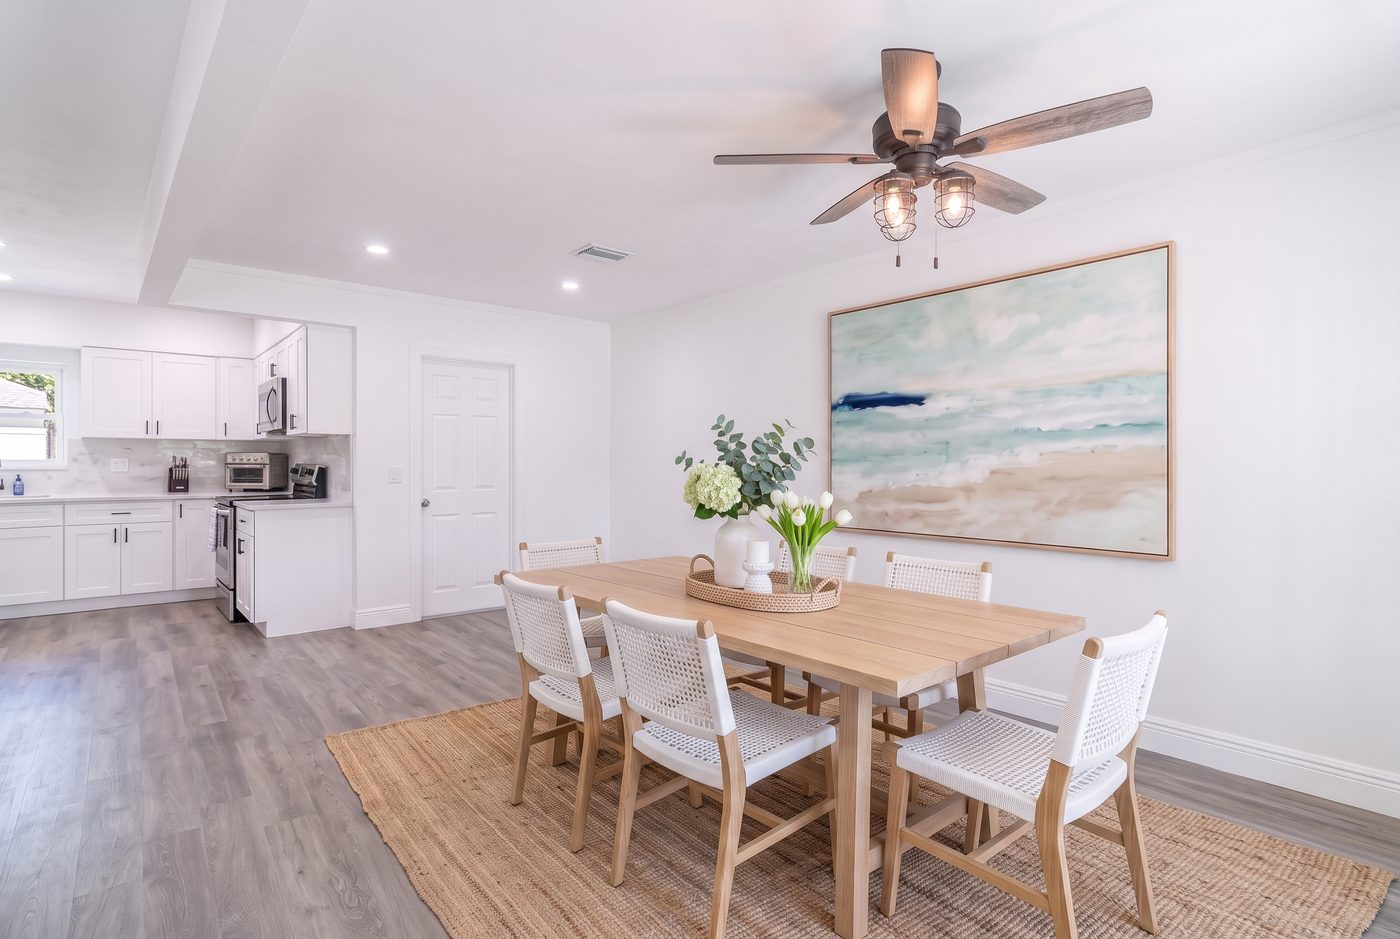
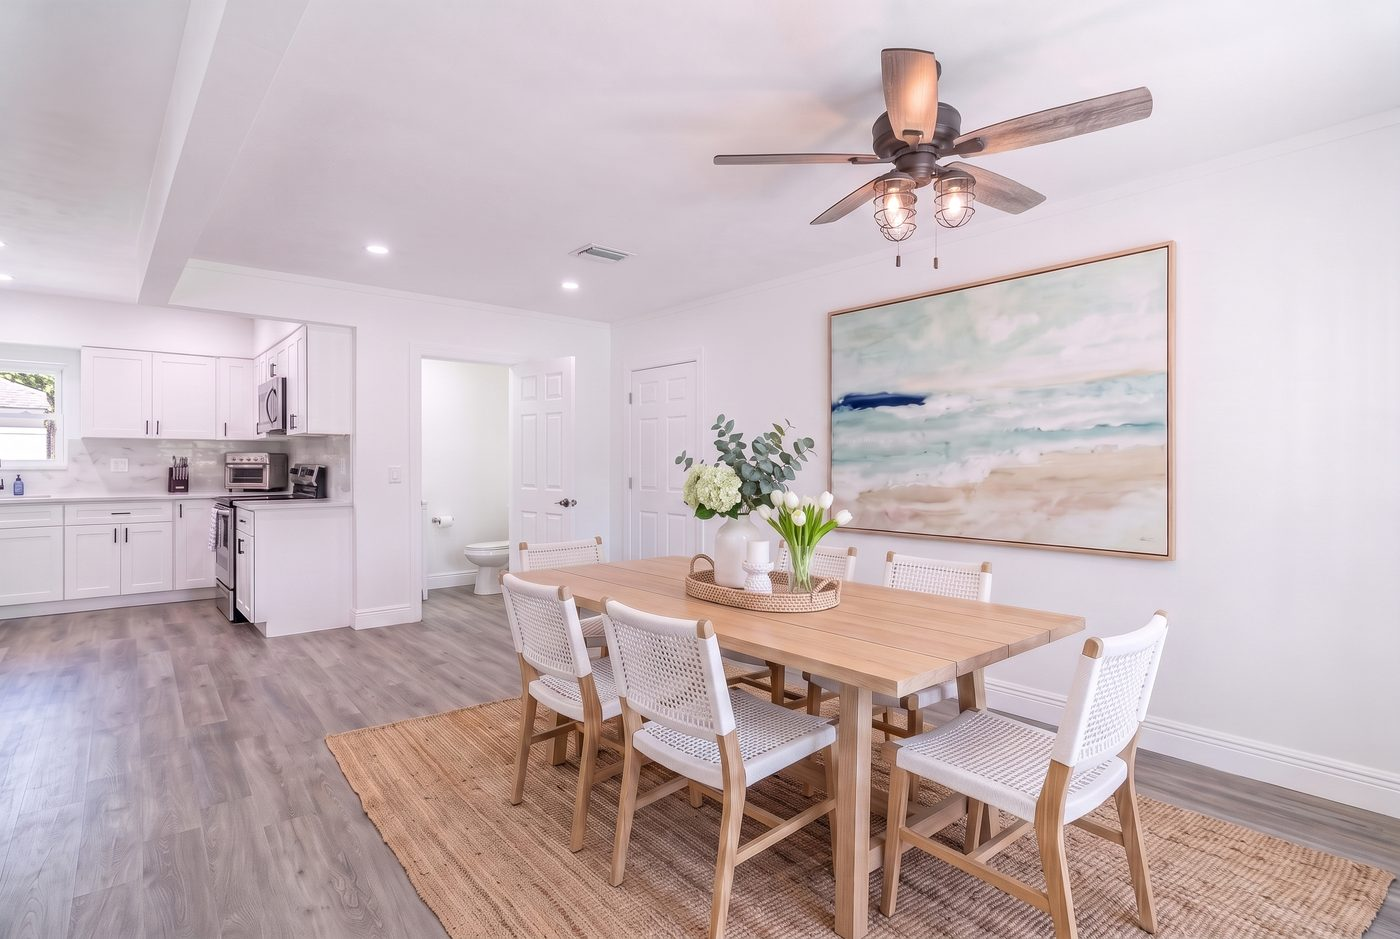
Laundry door moved, powder room added; 1.5 baths

diff --git a/index.html b/index.html
@@ -8,8 +8,8 @@
 <header class="absolute inset-x-0 top-0 z-20 flex items-center justify-between px-6 py-5 text-white"><span class="serif text-xl tracking-wide">BOYNTON BEACH · PALM BEACH COUNTY</span><span class="rounded-full border border-white/60 px-3 py-1 text-xs font-semibold tracking-[0.2em]">COMING SOON</span></header>
 <section class="relative h-[82vh] min-h-[520px] w-full overflow-hidden"><img src="img/hero.jpg" alt="" class="absolute inset-0 h-full w-full object-cover"/><div class="absolute inset-0 bg-gradient-to-t from-black/70 via-black/20 to-black/30"></div>
 <div class="absolute inset-x-0 bottom-0 px-6 pb-10 text-white sm:px-10"><p class="mb-3 text-xs font-semibold tracking-[0.3em] text-white/80">COMING SOON · BOYNTON BEACH · MINUTES TO THE BEACH</p><h1 class="serif text-4xl leading-tight sm:text-6xl">108 SW 12th Ave</h1><p class="mt-1 text-lg text-white/85">Boynton Beach, FL 33435</p><p class="mt-5 text-3xl font-semibold sm:text-4xl">$600,000</p></div></section>
-<section class="mx-auto -mt-8 max-w-5xl px-4"><div class="relative z-10 grid grid-cols-2 gap-y-6 rounded-2xl bg-white px-2 py-6 shadow-xl sm:grid-cols-4"><div class="flex flex-col items-center px-4"><span class="text-2xl font-semibold text-stone-900">2</span><span class="text-xs uppercase tracking-widest text-stone-500">Beds</span></div> <div class="flex flex-col items-center px-4"><span class="text-2xl font-semibold text-stone-900">1</span><span class="text-xs uppercase tracking-widest text-stone-500">Baths</span></div> <div class="flex flex-col items-center px-4"><span class="text-2xl font-semibold text-stone-900">Saltwater, heated</span><span class="text-xs uppercase tracking-widest text-stone-500">Pool</span></div> <div class="flex flex-col items-center px-4"><span class="text-2xl font-semibold text-stone-900">Rooftop</span><span class="text-xs uppercase tracking-widest text-stone-500">Solar</span></div></div></section>
-<section class="mx-auto max-w-3xl px-6 py-14"><p class="serif text-3xl leading-snug text-stone-900 sm:text-4xl">A turnkey coastal cottage with a heated saltwater pool on a quiet Boynton Beach street, a short bike ride to the sand and minutes to Delray&#x27;s Atlantic Avenue.</p><div class="mt-6 space-y-4 text-[17px] leading-relaxed text-stone-700"><p>One bright open great room: the living area, dining area and white shaker kitchen share a single flat ceiling, crisp white walls and wide-plank floors, with quartz counters and stainless appliances in the kitchen.</p><p>Out back, a new covered open-air lanai with a plank ceiling, fan, wall-mounted television and built-in grill island flows onto the travertine deck and a heated saltwater pool with a tanning platform, framed by clusia hedges, foxtail palms and landscape lighting for evenings outdoors.</p><p>Two bedrooms, a spa-style bath with a glass walk-in shower, rooftop solar, a new white privacy fence, and an easy ride to Oceanfront Park, the Boynton Harbor Marina and downtown Delray.</p></div></section>
+<section class="mx-auto -mt-8 max-w-5xl px-4"><div class="relative z-10 grid grid-cols-2 gap-y-6 rounded-2xl bg-white px-2 py-6 shadow-xl sm:grid-cols-4"><div class="flex flex-col items-center px-4"><span class="text-2xl font-semibold text-stone-900">2</span><span class="text-xs uppercase tracking-widest text-stone-500">Beds</span></div> <div class="flex flex-col items-center px-4"><span class="text-2xl font-semibold text-stone-900">1.5</span><span class="text-xs uppercase tracking-widest text-stone-500">Baths</span></div> <div class="flex flex-col items-center px-4"><span class="text-2xl font-semibold text-stone-900">Saltwater, heated</span><span class="text-xs uppercase tracking-widest text-stone-500">Pool</span></div> <div class="flex flex-col items-center px-4"><span class="text-2xl font-semibold text-stone-900">Rooftop</span><span class="text-xs uppercase tracking-widest text-stone-500">Solar</span></div></div></section>
+<section class="mx-auto max-w-3xl px-6 py-14"><p class="serif text-3xl leading-snug text-stone-900 sm:text-4xl">A turnkey coastal cottage with a heated saltwater pool on a quiet Boynton Beach street, a short bike ride to the sand and minutes to Delray&#x27;s Atlantic Avenue.</p><div class="mt-6 space-y-4 text-[17px] leading-relaxed text-stone-700"><p>One bright open great room: the living area, dining area and white shaker kitchen share a single flat ceiling, crisp white walls and wide-plank floors, with quartz counters and stainless appliances in the kitchen.</p><p>Out back, a new covered open-air lanai with a plank ceiling, fan, wall-mounted television and built-in grill island flows onto the travertine deck and a heated saltwater pool with a tanning platform, framed by clusia hedges, foxtail palms and landscape lighting for evenings outdoors.</p><p>Two bedrooms, a spa-style bath with a glass walk-in shower, a new powder room off the great room, rooftop solar, a new white privacy fence, and an easy ride to Oceanfront Park, the Boynton Harbor Marina and downtown Delray.</p></div></section>
 <section class="mx-auto max-w-6xl px-4 pb-6"><h2 class="serif mb-5 px-2 text-3xl text-stone-900">Gallery</h2><div class="grid grid-cols-1 gap-4 sm:grid-cols-2 lg:grid-cols-3"><figure class="group relative overflow-hidden rounded-2xl bg-stone-200 cursor-zoom-in" data-full="img/g01.jpg"><img src="img/g01.jpg" alt="Pool, lanai and lawn" loading="lazy" class="h-64 w-full object-cover transition duration-500 group-hover:scale-105 sm:h-72"/><figcaption class="absolute bottom-0 left-0 right-0 bg-gradient-to-t from-black/60 to-transparent px-4 pb-3 pt-10 text-sm text-white">Pool, lanai and lawn</figcaption></figure>
 <figure class="group relative overflow-hidden rounded-2xl bg-stone-200 cursor-zoom-in" data-full="img/g02.jpg"><img src="img/g02.jpg" alt="Open great room" loading="lazy" class="h-64 w-full object-cover transition duration-500 group-hover:scale-105 sm:h-72"/><figcaption class="absolute bottom-0 left-0 right-0 bg-gradient-to-t from-black/60 to-transparent px-4 pb-3 pt-10 text-sm text-white">Open great room</figcaption></figure>
 <figure class="group relative overflow-hidden rounded-2xl bg-stone-200 cursor-zoom-in" data-full="img/g03.jpg"><img src="img/g03.jpg" alt="Living room looking to the dining area" loading="lazy" class="h-64 w-full object-cover transition duration-500 group-hover:scale-105 sm:h-72"/><figcaption class="absolute bottom-0 left-0 right-0 bg-gradient-to-t from-black/60 to-transparent px-4 pb-3 pt-10 text-sm text-white">Living room looking to the dining area</figcaption></figure>
@@ -31,7 +31,7 @@
 <figure class="group relative overflow-hidden rounded-2xl bg-stone-200 cursor-zoom-in" data-full="img/n05.jpg"><img src="img/n05.jpg" alt="Front entry at dusk" loading="lazy" class="h-64 w-full object-cover transition duration-500 group-hover:scale-105 sm:h-72"/><figcaption class="absolute bottom-0 left-0 right-0 bg-gradient-to-t from-black/60 to-transparent px-4 pb-3 pt-10 text-sm text-white">Front entry at dusk</figcaption></figure>
 <figure class="group relative overflow-hidden rounded-2xl bg-stone-200 cursor-zoom-in" data-full="img/n06.jpg"><img src="img/n06.jpg" alt="Dining under the palms at dusk" loading="lazy" class="h-64 w-full object-cover transition duration-500 group-hover:scale-105 sm:h-72"/><figcaption class="absolute bottom-0 left-0 right-0 bg-gradient-to-t from-black/60 to-transparent px-4 pb-3 pt-10 text-sm text-white">Dining under the palms at dusk</figcaption></figure>
 <figure class="group relative overflow-hidden rounded-2xl bg-stone-200 cursor-zoom-in" data-full="img/n07.jpg"><img src="img/n07.jpg" alt="Tanning platform at dusk" loading="lazy" class="h-64 w-full object-cover transition duration-500 group-hover:scale-105 sm:h-72"/><figcaption class="absolute bottom-0 left-0 right-0 bg-gradient-to-t from-black/60 to-transparent px-4 pb-3 pt-10 text-sm text-white">Tanning platform at dusk</figcaption></figure></div></section>
-<section class="mx-auto max-w-5xl px-6 py-12"><h2 class="serif mb-5 text-3xl text-stone-900">Highlights</h2><ul class="grid grid-cols-1 gap-x-10 gap-y-3 text-[17px] text-stone-700 sm:grid-cols-2"><li class="flex gap-3"><span class="mt-1 h-1.5 w-1.5 shrink-0 rounded-full bg-stone-900"></span><span>One open great room: living, dining and kitchen under a single ceiling</span></li><li class="flex gap-3"><span class="mt-1 h-1.5 w-1.5 shrink-0 rounded-full bg-stone-900"></span><span>White shaker kitchen with quartz counters and stainless appliances</span></li><li class="flex gap-3"><span class="mt-1 h-1.5 w-1.5 shrink-0 rounded-full bg-stone-900"></span><span>New covered open-air lanai: plank ceiling, fan, TV wall, grill island</span></li><li class="flex gap-3"><span class="mt-1 h-1.5 w-1.5 shrink-0 rounded-full bg-stone-900"></span><span>Heated saltwater pool with tanning platform and travertine deck</span></li><li class="flex gap-3"><span class="mt-1 h-1.5 w-1.5 shrink-0 rounded-full bg-stone-900"></span><span>New landscaping: clusia hedges, foxtail palms, bird of paradise</span></li><li class="flex gap-3"><span class="mt-1 h-1.5 w-1.5 shrink-0 rounded-full bg-stone-900"></span><span>Landscape, path and pool lighting for evenings outdoors</span></li><li class="flex gap-3"><span class="mt-1 h-1.5 w-1.5 shrink-0 rounded-full bg-stone-900"></span><span>Spa-style bath with glass walk-in shower and pebble floor</span></li><li class="flex gap-3"><span class="mt-1 h-1.5 w-1.5 shrink-0 rounded-full bg-stone-900"></span><span>Rooftop solar, new white privacy fence, outdoor shower</span></li></ul></section>
+<section class="mx-auto max-w-5xl px-6 py-12"><h2 class="serif mb-5 text-3xl text-stone-900">Highlights</h2><ul class="grid grid-cols-1 gap-x-10 gap-y-3 text-[17px] text-stone-700 sm:grid-cols-2"><li class="flex gap-3"><span class="mt-1 h-1.5 w-1.5 shrink-0 rounded-full bg-stone-900"></span><span>One open great room: living, dining and kitchen under a single ceiling</span></li><li class="flex gap-3"><span class="mt-1 h-1.5 w-1.5 shrink-0 rounded-full bg-stone-900"></span><span>New powder room and laundry off the great room</span></li><li class="flex gap-3"><span class="mt-1 h-1.5 w-1.5 shrink-0 rounded-full bg-stone-900"></span><span>White shaker kitchen with quartz counters and stainless appliances</span></li><li class="flex gap-3"><span class="mt-1 h-1.5 w-1.5 shrink-0 rounded-full bg-stone-900"></span><span>New covered open-air lanai: plank ceiling, fan, TV wall, grill island</span></li><li class="flex gap-3"><span class="mt-1 h-1.5 w-1.5 shrink-0 rounded-full bg-stone-900"></span><span>Heated saltwater pool with tanning platform and travertine deck</span></li><li class="flex gap-3"><span class="mt-1 h-1.5 w-1.5 shrink-0 rounded-full bg-stone-900"></span><span>New landscaping: clusia hedges, foxtail palms, bird of paradise</span></li><li class="flex gap-3"><span class="mt-1 h-1.5 w-1.5 shrink-0 rounded-full bg-stone-900"></span><span>Landscape, path and pool lighting for evenings outdoors</span></li><li class="flex gap-3"><span class="mt-1 h-1.5 w-1.5 shrink-0 rounded-full bg-stone-900"></span><span>Spa-style bath with glass walk-in shower and pebble floor</span></li><li class="flex gap-3"><span class="mt-1 h-1.5 w-1.5 shrink-0 rounded-full bg-stone-900"></span><span>Rooftop solar, new white privacy fence, outdoor shower</span></li></ul></section>
 <section class="bg-stone-900 py-14 text-stone-100"><div class="mx-auto max-w-6xl px-4"><h2 class="serif mb-2 px-2 text-3xl">The transformation</h2><p class="mb-6 px-2 text-stone-300">Tap Before and After on each photo.</p><div class="grid grid-cols-1 gap-5 md:grid-cols-2"><div class="ba rounded-2xl overflow-hidden bg-stone-200" data-before="img/b01.jpg" data-after="img/a01.jpg">
   <div class="relative"><img src="img/a01.jpg" class="w-full object-cover aspect-[4/3] ba-img" alt="Pool, lanai and lawn"/>
     <div class="absolute left-3 top-3 flex gap-2"><button class="ba-btn rounded-full bg-white/90 px-3 py-1 text-xs font-semibold tracking-wide text-stone-800 shadow" data-state="before">BEFORE</button><button class="ba-btn rounded-full bg-stone-900 px-3 py-1 text-xs font-semibold tracking-wide text-white shadow" data-state="after">AFTER</button></div></div>
